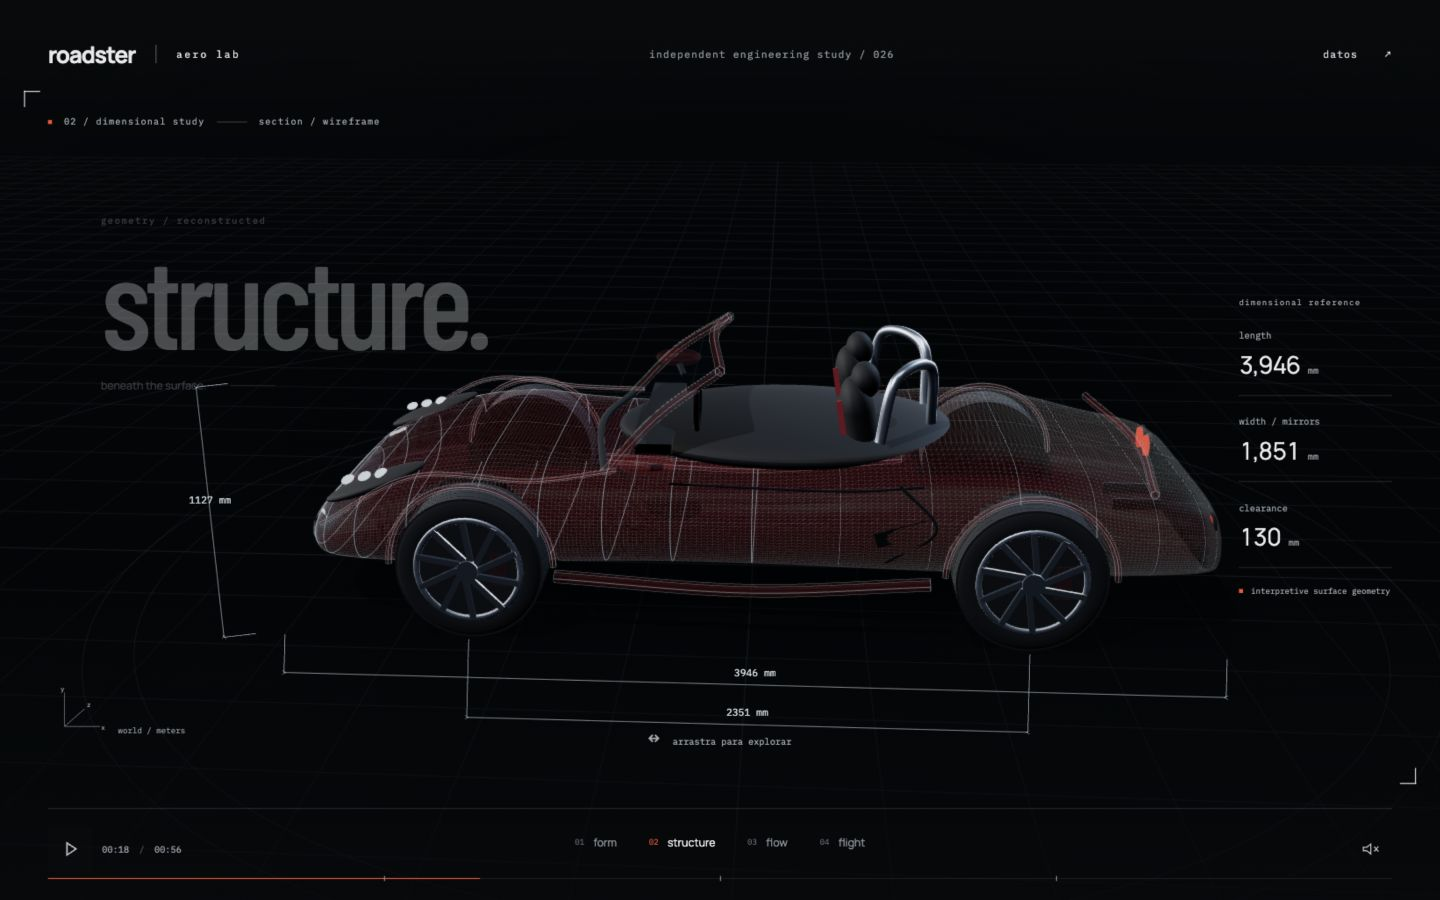
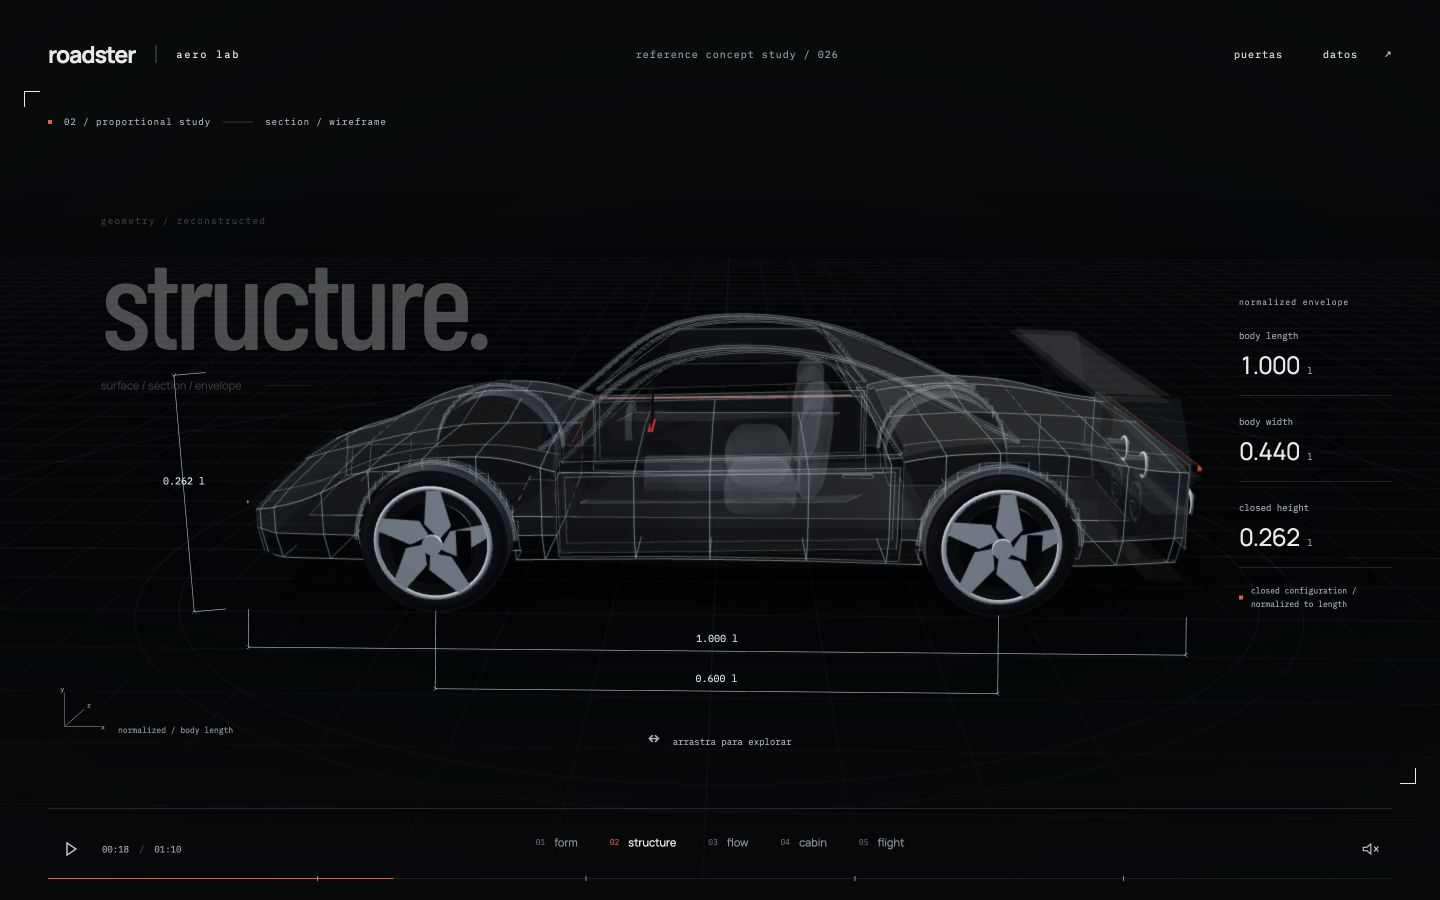
docs: document reference proportions and refresh scene captures

diff --git a/README.md b/README.md
@@ -1,6 +1,6 @@
 # roadster aero lab
 
-estudio tridimensional de forma, flujo y vuelo. una secuencia continua de 56 segundos sobre el tesla roadster de primera generación y falcon heavy.
+reconstrucción tridimensional de un concepto roadster a partir de las imágenes y el vídeo de referencia proporcionados. una secuencia continua de 70 segundos con carrocería en cuña, puertas elevables, habitáculo y aerodinámica visual.
 
 [ver sitio](https://kisnner26.github.io/roadster-aero-lab/)
 
@@ -8,11 +8,13 @@ estudio tridimensional de forma, flujo y vuelo. una secuencia continua de 56 seg
 
 ## incluye
 
-- modelo paramétrico con carrocería, habitáculo, llantas, frenos y luces
-- cuatro capítulos: superficie, estructura, flujo y vuelo
-- iluminación de estudio, sombras, malla técnica y cotas proyectadas en 3d
+- carrocería blanca facetada, cabina cerrada y luces de ancho completo
+- puertas animadas, cinco radios por rueda, alerón y cuatro boquillas traseras
+- cinco capítulos: superficie, estructura, flujo, habitáculo y vuelo conceptual
+- iluminación de estudio, sombras, malla técnica y proporciones proyectadas en 3d
 - líneas de corriente y partículas animadas mediante shaders
-- tierra procedural, estrellas y falcon heavy en la escena orbital
+- yoke, pantalla central, asientos claros y revestimiento interior
+- tierra procedural, estrellas y una escena especulativa de propulsión
 - cámaras continuas, exploración táctil, navegación y línea de tiempo
 - sonido ambiental opcional, movimiento reducido y pausa al ocultar la pestaña
 - tipografías locales; ningún recurso remoto necesario durante la reproducción
@@ -21,7 +23,9 @@ estudio tridimensional de forma, flujo y vuelo. una secuencia continua de 56 seg
 
 ## controles
 
-arrastra para orbitar. selecciona un capítulo o arrastra la línea de tiempo para buscar un instante. espacio pausa o reproduce; las flechas y la rueda cambian de capítulo. el sonido comienza únicamente al activarlo.
+arrastra para orbitar. selecciona un capítulo o arrastra la línea de tiempo para buscar un instante. el botón `puertas` abre o cierra ambos paneles. espacio pausa o reproduce; las flechas y la rueda cambian de capítulo. el sonido comienza únicamente al activarlo.
+
+![habitáculo reconstruido](public/assets/roadster-cabin.jpg)
 
 ## desarrollo
 
@@ -39,14 +43,14 @@ npm run build
 
 ## fuentes
 
-- [tesla roadster](https://www.tesla.com/es_es/roadster)
-- [manual del propietario roadster 2.5](https://service.tesla.com/docs/Public/Roadster/Owner/Roadster_2.5_Owners_Manual.pdf)
-- [manual de servicio roadster](https://service.tesla.com/docs/Public/Roadster/ServiceManual/en-us/GUID-4E037ADB-D0F4-48A0-9261-1083193D4C1B.html)
-- [falcon heavy](https://www.spacex.com/vehicles/falcon-heavy/)
-- [falcon user's guide](https://www.spacex.com/assets/media/falcon-users-guide-2025-05-09.pdf)
+- cuatro imágenes de referencia aportadas por el usuario: frontal con puertas abiertas, tres cuartos trasero, trasera e interior
+- [vídeo de referencia proporcionado](https://www.youtube.com/shorts/oCvC70oIS5w)
+- [tesla roadster oficial](https://www.tesla.com/roadster)
 
 three.js, gsap y vite. la geometría, las cámaras y los shaders se evalúan desde un tiempo absoluto, permitiendo saltar entre instantes sin acumular simulación.
 
-proyecto independiente no afiliado a tesla ni spacex. las medidas citadas son referencias públicas; la carrocería es interpretativa y no un cad de fabricación. el flujo es cualitativo, no cfd. la escena orbital es una reconstrucción artística y sus objetos no comparten una escala física. el manual 2.5 documenta la referencia dimensional; no implica que el automóvil de la misión fuera esa variante.
+proyecto independiente no afiliado a tesla ni spacex. no se ha confirmado que el diseño de las referencias sea oficial. la geometría es una interpretación visual, no un cad de fabricación.
+
+las proporciones se normalizan a la longitud de la carrocería (`l`): longitud `1.000 l`, batalla `0.600 l`, ancho `0.440 l` y altura con puertas cerradas `0.262 l`. son estimaciones del modelo, no dimensiones físicas certificadas. no se reutilizan las cotas del roadster de primera generación para esta carrocería. el flujo es cualitativo, no cfd; la propulsión y la escena espacial son especulativas, no una recreación de la misión de 2018.
 
 las fuentes barlow condensed, ibm plex mono y manrope se distribuyen con sus licencias sil open font license en `public/fonts`.
